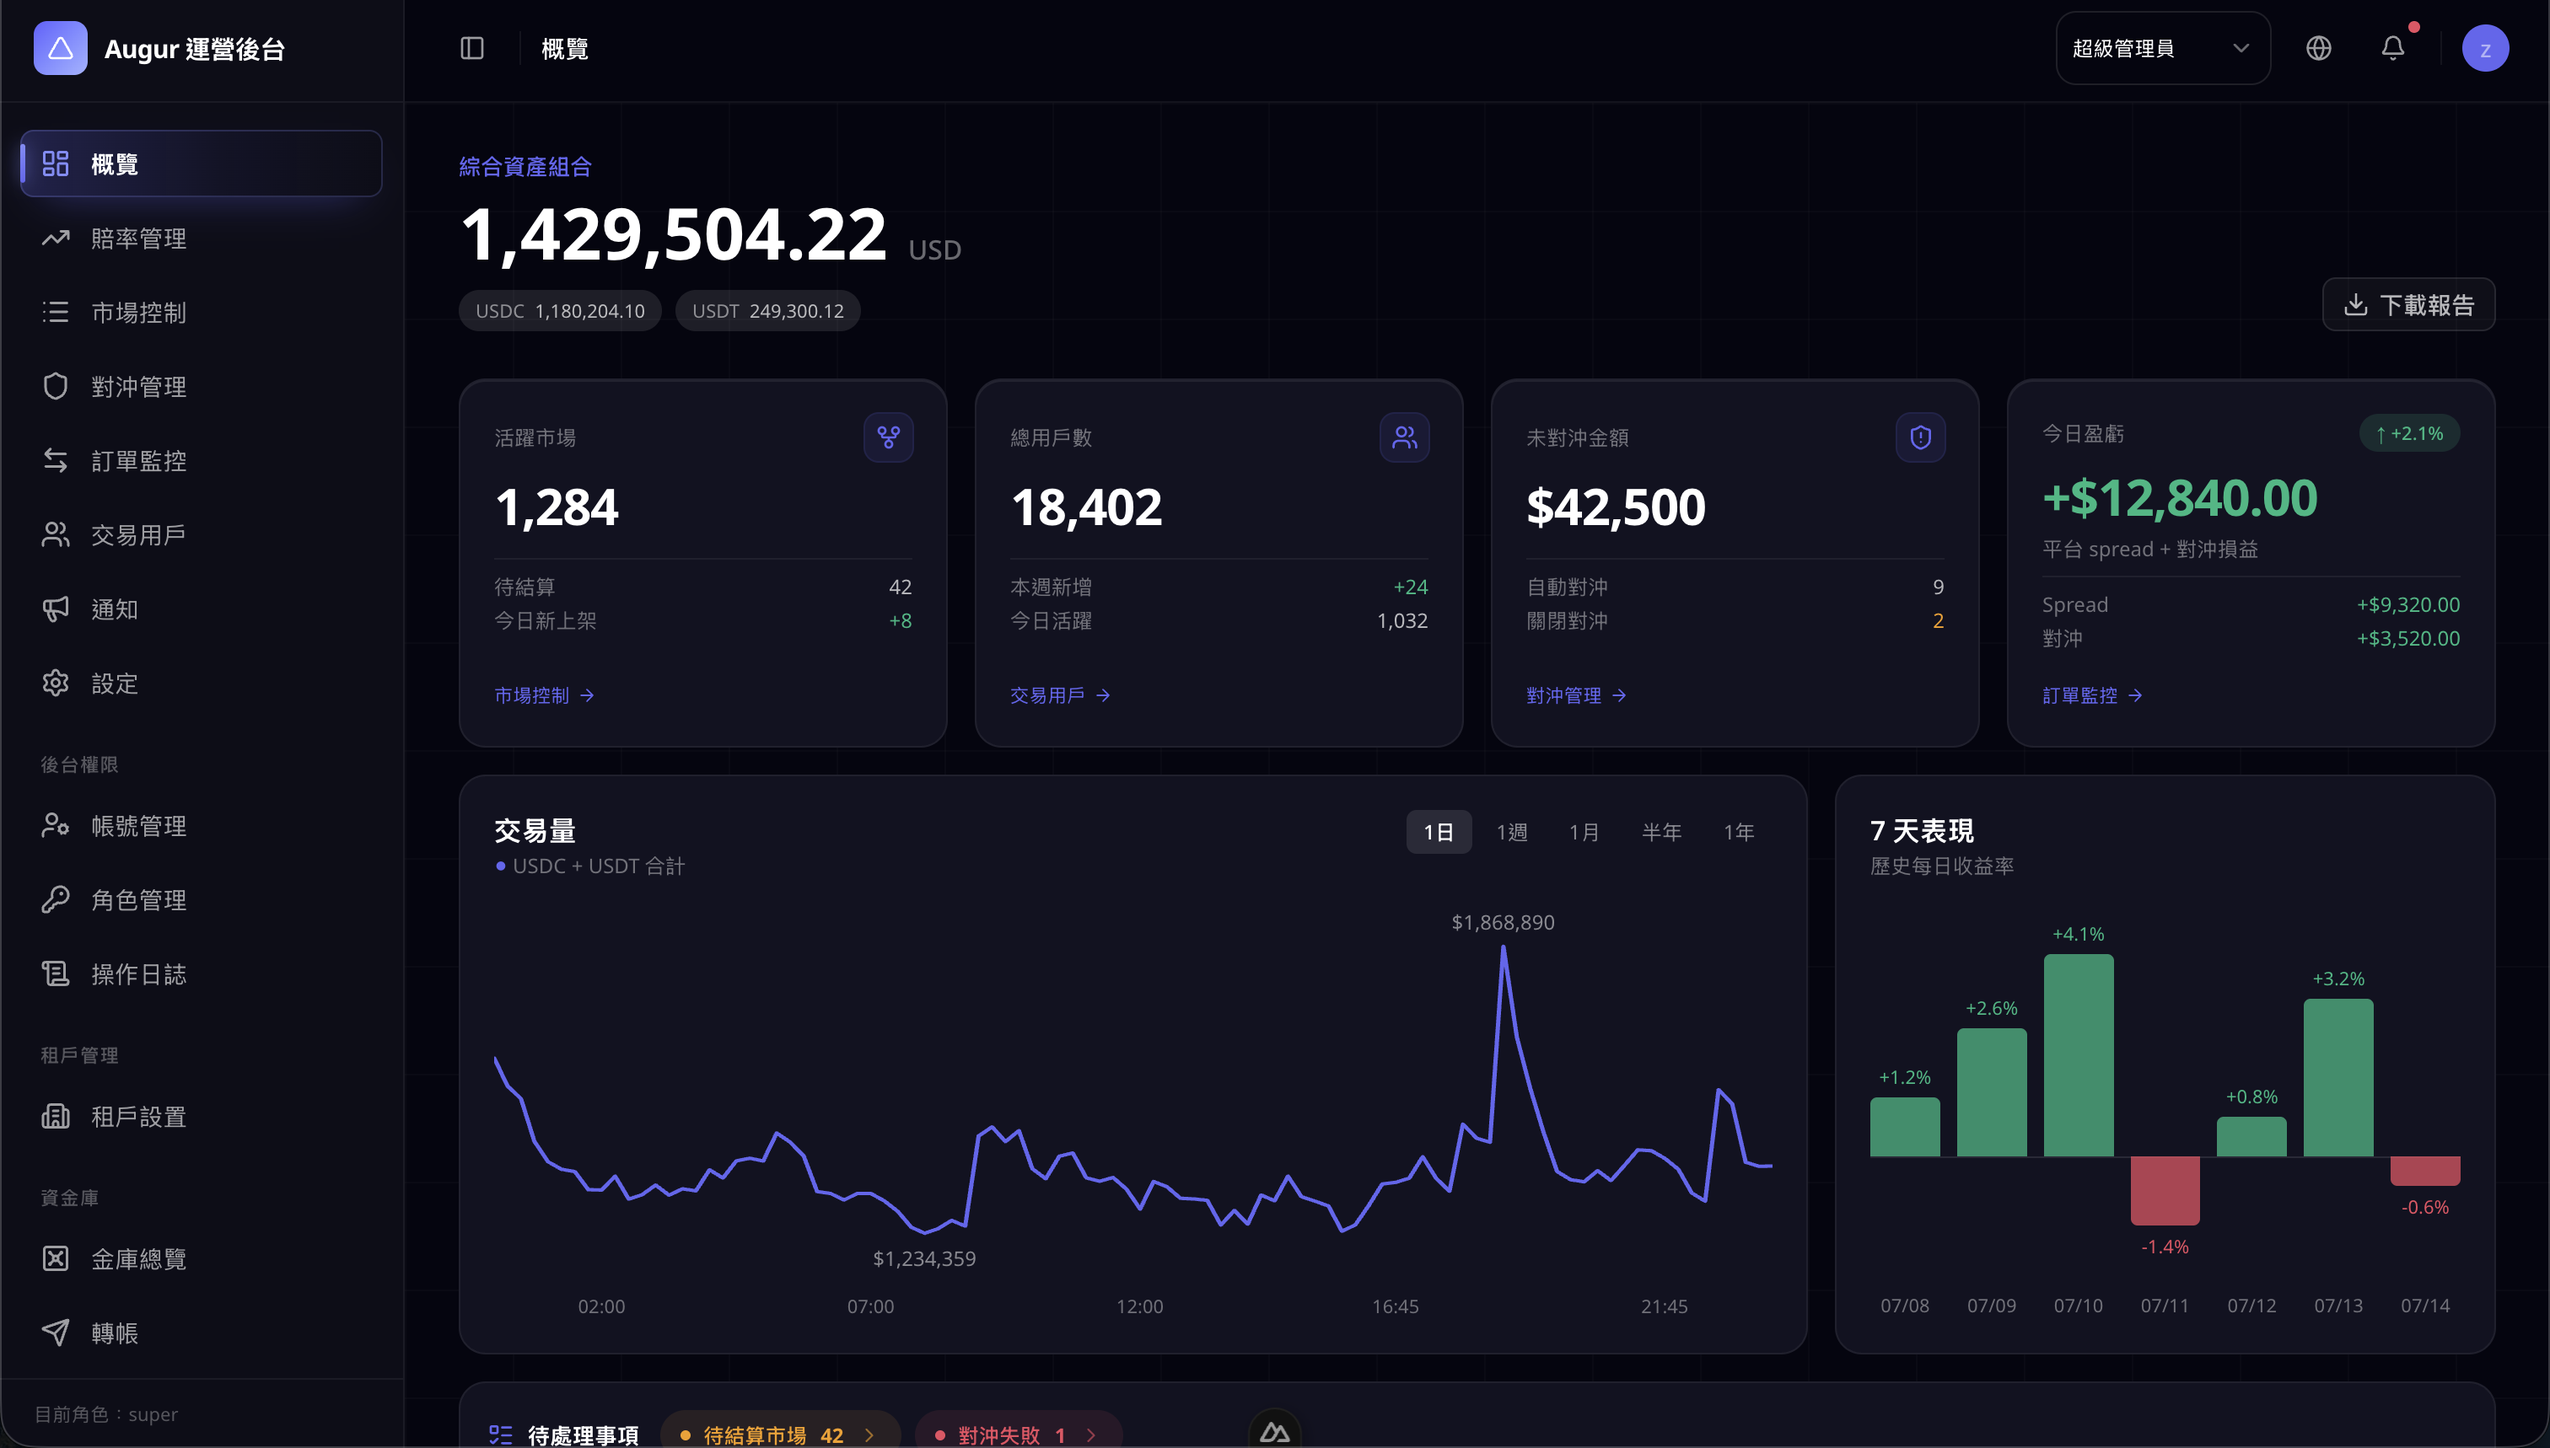
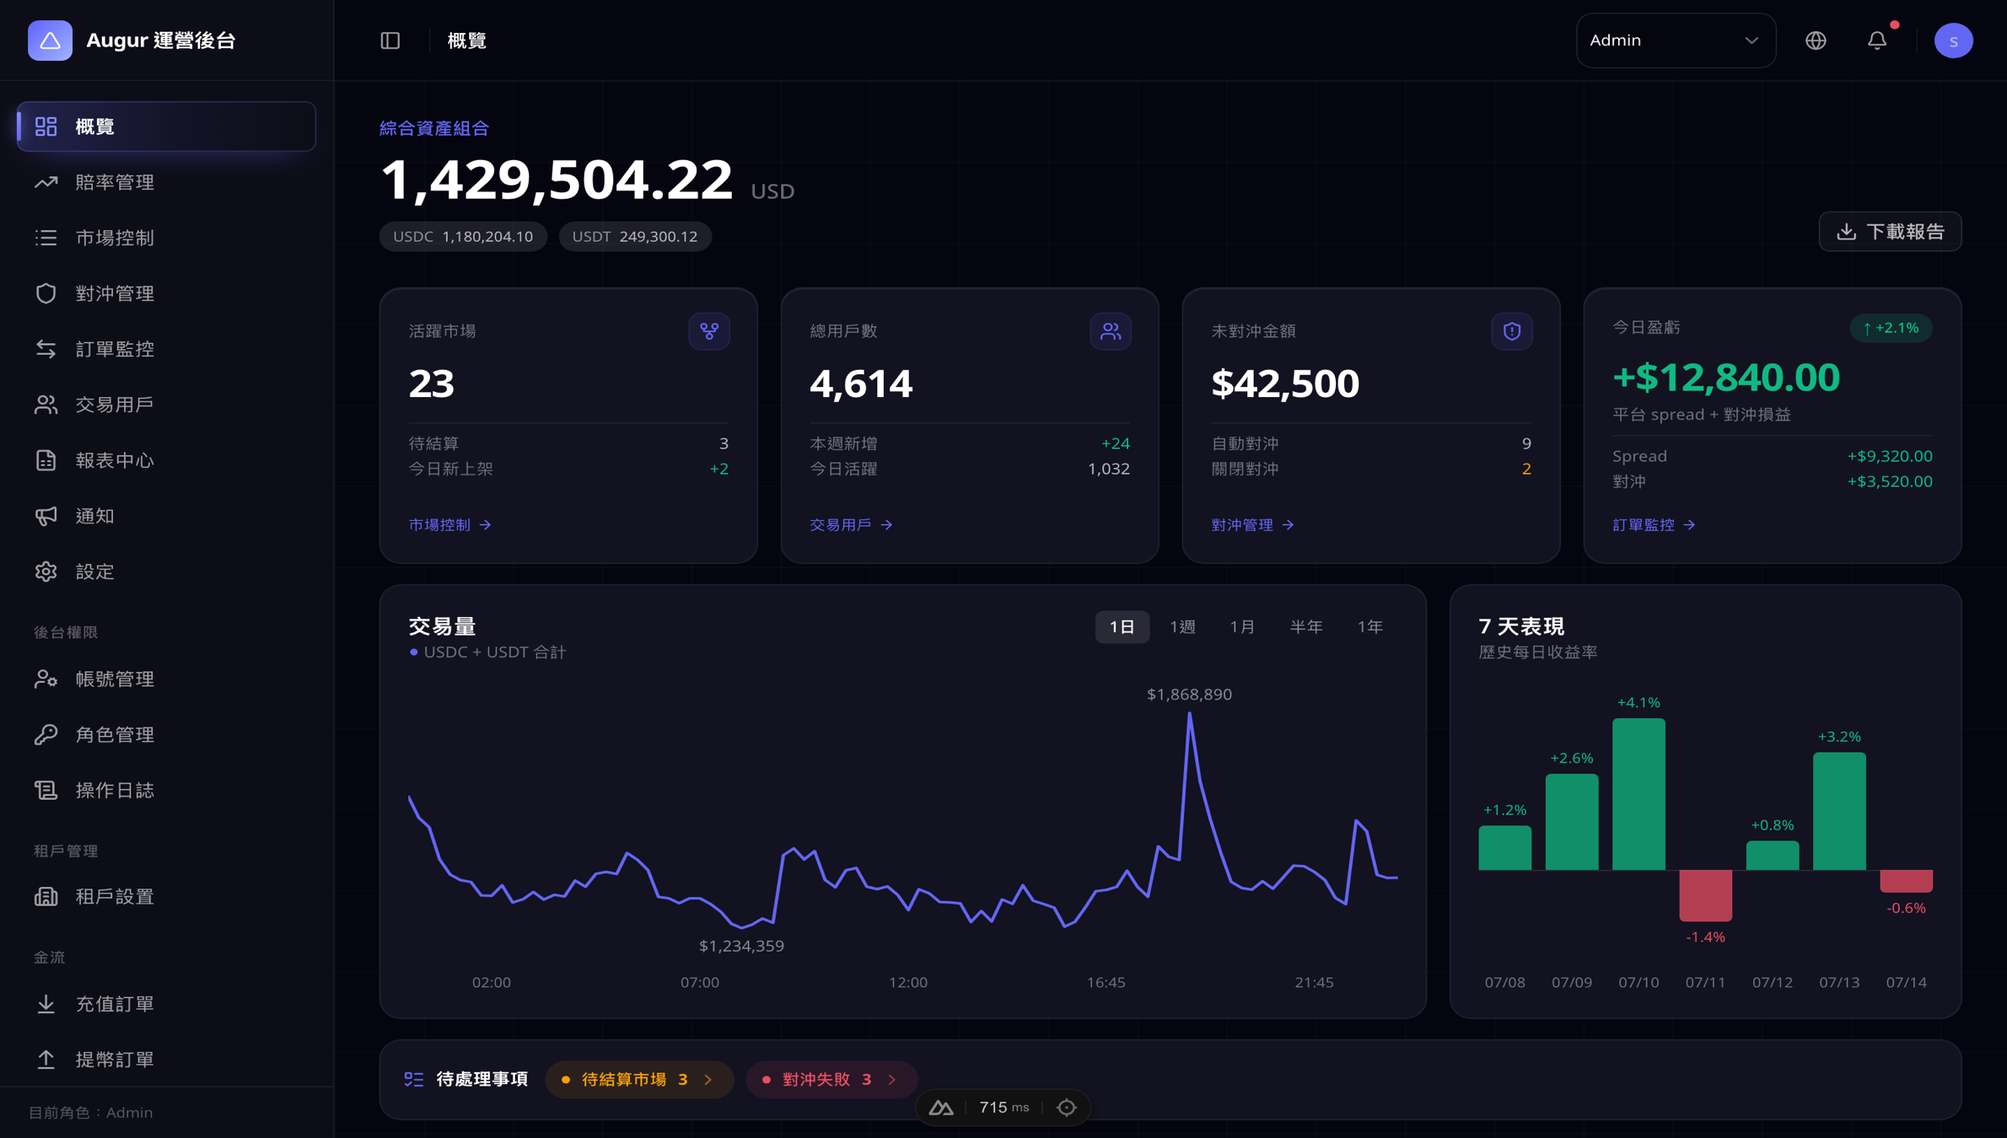
Merge admin screenshots into gallery, add deposits shot

diff --git a/src/app/[locale]/work/prediction-market/PredictionMarketClient.tsx b/src/app/[locale]/work/prediction-market/PredictionMarketClient.tsx
@@ -333,8 +333,10 @@ const designCardMeta = [
 
 function ArrowGallery({
   slides,
+  fit = "cover",
 }: {
   slides: { src?: string; caption: string }[];
+  fit?: "cover" | "contain";
 }) {
   const [active, setActive] = useState(0);
   const slide = slides[active];
@@ -362,7 +364,7 @@ function ArrowGallery({
                   src={slide.src}
                   alt={slide.caption}
                   fill
-                  className="object-cover"
+                  className={fit === "contain" ? "object-contain" : "object-cover"}
                   sizes="(max-width: 768px) 100vw, 1200px"
                 />
               ) : (
@@ -1038,15 +1040,15 @@ function CloseStateCard({
   spec: DialogSpec;
 }) {
   return (
-    <div className="group relative flex h-full flex-col overflow-hidden rounded-2xl border border-white/[0.08] bg-gradient-to-b from-white/[0.05] via-white/[0.02] to-transparent p-6 backdrop-blur-xl transition-all duration-500 hover:-translate-y-1 hover:border-accent/30 hover:shadow-[0_28px_70px_-20px_rgba(0,229,208,0.16)]">
+    <div className="relative flex h-full flex-col overflow-hidden rounded-2xl border border-white/[0.08] bg-gradient-to-b from-white/[0.05] via-white/[0.02] to-transparent p-6 backdrop-blur-xl">
       {/* top hairline + corner glow */}
       <div className="absolute inset-x-0 top-0 h-px bg-gradient-to-r from-accent/50 via-accent/10 to-transparent" />
-      <div className="pointer-events-none absolute -right-14 -top-14 h-44 w-44 rounded-full bg-accent/[0.05] blur-3xl transition-colors duration-700 group-hover:bg-accent/[0.12]" />
+      <div className="pointer-events-none absolute -right-14 -top-14 h-44 w-44 rounded-full bg-accent/[0.05] blur-3xl" />
 
       {/* watermark state number */}
       <span
         aria-hidden
-        className="pointer-events-none absolute -top-4 right-4 select-none font-[var(--font-display)] text-[72px] font-bold leading-none tracking-tight text-transparent transition-transform duration-700 group-hover:-translate-y-1"
+        className="pointer-events-none absolute -top-4 right-4 select-none font-[var(--font-display)] text-[72px] font-bold leading-none tracking-tight text-transparent"
         style={{ WebkitTextStroke: "1.2px rgba(0,229,208,0.14)" }}
       >
         {String(index).padStart(2, "0")}
@@ -1056,7 +1058,7 @@ function CloseStateCard({
         <span className="flex h-8 w-8 shrink-0 items-center justify-center rounded-lg border border-accent/25 bg-accent/10 font-[var(--font-mono)] text-[12px] font-bold text-accent shadow-[inset_0_1px_0_rgba(255,255,255,0.1)]">
           {String(index).padStart(2, "0")}
         </span>
-        <span className="rounded-full border border-white/[0.08] bg-white/[0.04] px-2.5 py-1 font-[var(--font-mono)] text-[10px] uppercase tracking-[1.6px] text-text-muted transition-colors duration-500 group-hover:border-accent/20 group-hover:text-accent/80">
+        <span className="rounded-full border border-white/[0.08] bg-white/[0.04] px-2.5 py-1 font-[var(--font-mono)] text-[10px] uppercase tracking-[1.6px] text-text-muted">
           {code}
         </span>
       </div>
@@ -1944,23 +1946,14 @@ export default function PredictionMarketClient() {
         </div>
       </ScrollReveal>
 
-      <ScrollReveal className={`${SECTION} mb-8`}>
-        <CaptionedImage
-          src={`${IMG}/admin-overview.png`}
-          alt={t("admin.image1Caption")}
-          caption={t("admin.image1Caption")}
-          width={3024}
-          height={1718}
-        />
-      </ScrollReveal>
-
       <ScrollReveal className={`${SECTION} mb-[var(--cs-section-gap)]`}>
-        <CaptionedImage
-          src={`${IMG}/admin-login.png`}
-          alt={t("admin.image2Caption")}
-          caption={t("admin.image2Caption")}
-          width={1440}
-          height={1000}
+        <ArrowGallery
+          fit="contain"
+          slides={[
+            { src: `${IMG}/admin-overview.png`, caption: t("admin.image1Caption") },
+            { src: `${IMG}/admin-deposits.png`, caption: t("admin.image3Caption") },
+            { src: `${IMG}/admin-login.png`, caption: t("admin.image2Caption") },
+          ]}
         />
       </ScrollReveal>
 
